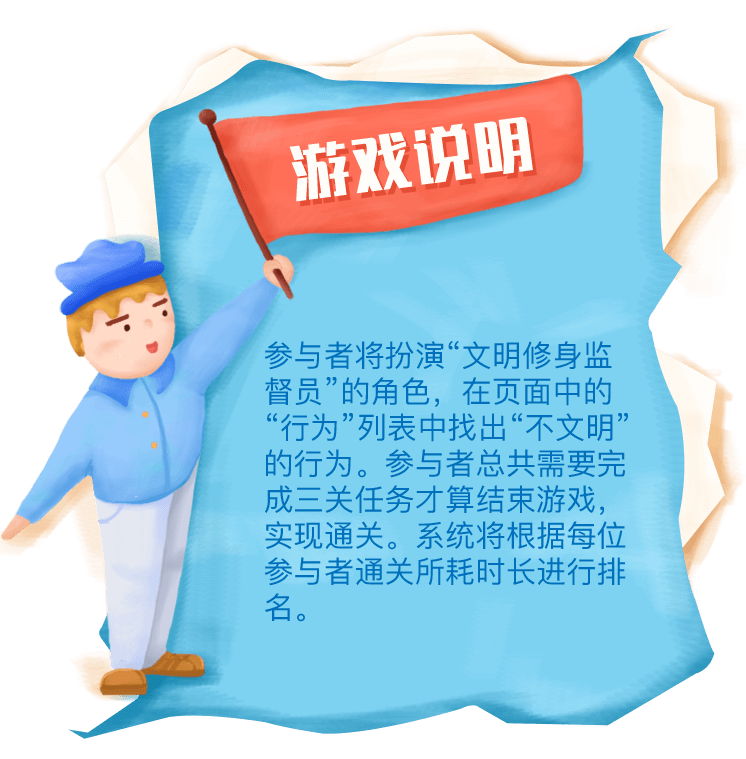
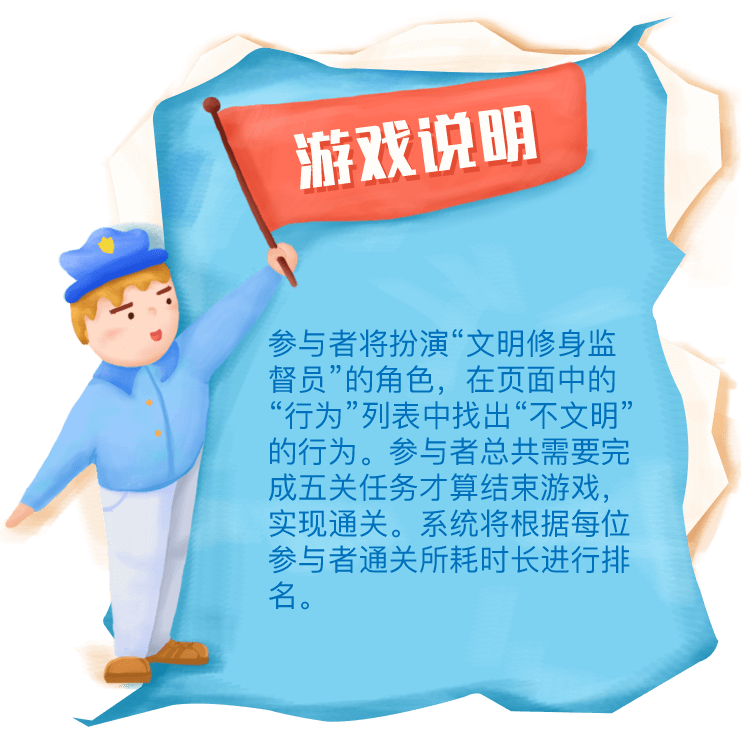
杨老板要加到5关

diff --git a/Public/css/style.css b/Public/css/style.css
@@ -21,7 +21,7 @@
   cursor: pointer;
 }
 .alertBox {
-  background: url("/PoliteSupervisor/Public/images/popbox.png") no-repeat center;
+  background: url("../images/popbox.png") no-repeat center;
   background-size: 100% 100%;
   position: fixed;
   width: 100%;
@@ -140,7 +140,7 @@
   display: none;
 }
 #StartPage {
-  background: url("/PoliteSupervisor/Public/images/background.jpg") no-repeat center;
+  background: url("../images/background.jpg") no-repeat center;
   background-size: 100% 100%;
   position: relative;
 }
@@ -149,7 +149,7 @@
   width: 84%;
   left: 8%;
   top: 20%;
-  background: url("/PoliteSupervisor/Public/images/developerBack.png") no-repeat center;
+  background: url("../images/developerBack.png") no-repeat center;
   background-size: 100% 100%;
   z-index: 100;
   overflow: hidden;
@@ -244,7 +244,7 @@
 #GamePage .recordContainer > div {
   width: 48.13%;
   height: 100%;
-  background: url("/PoliteSupervisor/Public/images/recordBack.png") no-repeat center;
+  background: url("../images/recordBack.png") no-repeat center;
   background-size: 100% 100%;
   overflow: hidden;
 }
@@ -257,13 +257,16 @@
 #GamePage .recordContainer .WordNum {
   float: left;
 }
+#GamePage .recordContainer .WordNum .logo {
+  width: 24%;
+}
 #GamePage .recordContainer .WordNum .WNum {
   font-family: rui;
   font-size: 18px;
   color: #ffffff;
   float: left;
-  margin-left: 11%;
-  margin-top: 2%;
+  margin-left: 10%;
+  margin-top: 4%;
   text-shadow: 2px 1px 0 #779f1b;
 }
 #GamePage .recordContainer .Timer {
@@ -274,12 +277,12 @@
   font-size: 18px;
   color: #ffffff;
   float: left;
-  margin-top: 2%;
+  margin-top: 2.5%;
   text-shadow: 2px 1px 0 #779f1b;
 }
 #GamePage .wordContainer {
   width: 100%;
-  background: url("/PoliteSupervisor/Public/images/wordBack.png") no-repeat center;
+  background: url("../images/wordBack.png") no-repeat center;
   background-size: 100% 100%;
   position: relative;
 }
@@ -303,7 +306,7 @@
   top: 12%;
 }
 #GamePage .wordContainer .wordUl li {
-  background: url("/PoliteSupervisor/Public/images/selector.png") no-repeat center;
+  background: url("../images/selector.png") no-repeat center;
   background-size: 100% 100%;
   height: 11.57%;
   text-align: center;

diff --git a/Public/js/GameController.js b/Public/js/GameController.js
@@ -48,7 +48,7 @@ Timer.prototype = {
 };
 $(function(){
     var StartBtn = $('.StartBtn');
-    var state = [['第一关',1],['第二关',3],['第三关',5]];
+    var state = [['第一关',1],['第二关',3],['第三关',5],['第四关',7],['第五关',9]];
     var stateIndex;
     var s = $('.sencond');
     var ms = $('.msecond');
@@ -97,7 +97,7 @@ $(function(){
             timer.clearTimer();
             clearInterval(showTime);
             stateIndex += 1;
-            if(stateIndex < 3){
+            if(stateIndex < 5){
                 $.mobile.loading('show');
                 var _data = {};
                 _data.state = (stateIndex);

diff --git a/Public/css/style.less b/Public/css/style.less
@@ -256,13 +256,16 @@
     }
     .WordNum{
       float: left;
+      .logo{
+        width: 24%;
+      }
       .WNum{
         font-family: rui;
         font-size: 18px;
         color: #ffffff;
         float: left;
-        margin-left: 11%;
-        margin-top: 2%;
+        margin-left: 10%;
+        margin-top: 4%;
         text-shadow: 2px 1px 0 #779f1b;
       }
     }
@@ -273,7 +276,7 @@
         font-size: 18px;
         color: #ffffff;
         float: left;
-        margin-top: 2%;
+        margin-top: 2.5%;
         text-shadow: 2px 1px 0 #779f1b;
       }
     }
